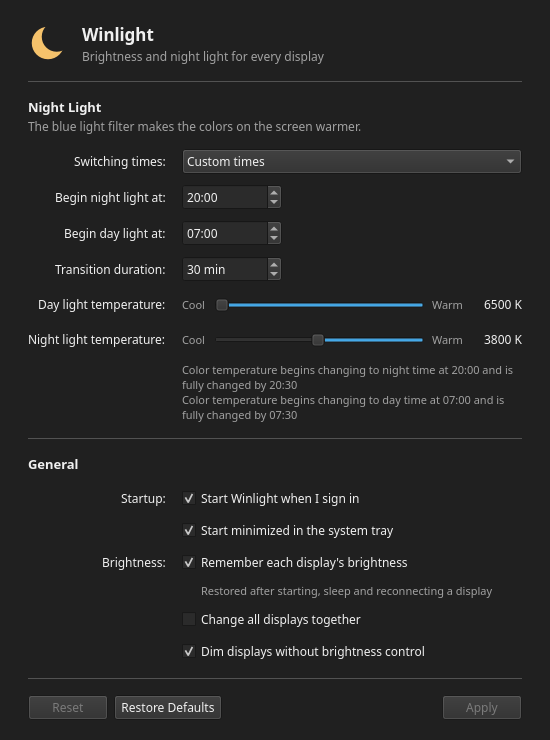
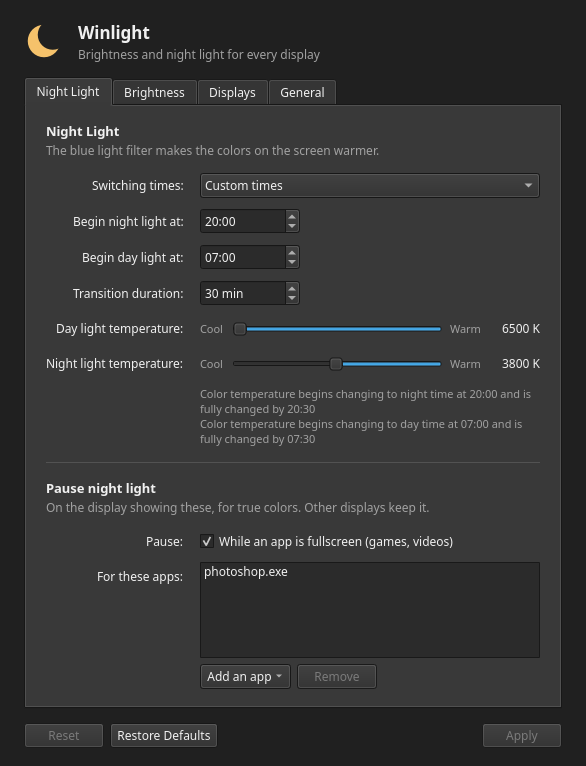
Docs: replaces Windows Night Light, command line, reporting, installer test plan
- README: Winlight replaces Windows Night Light rather than stacking with
  it; the new features; command line and "Report a Problem" sections.
- docs/testing-installer.md: a 20-minute checklist for testers using the
  installer, ending in Report a Problem.
- docs/windows-testing.md: unlock/wake timing, Windows Night Light
  notice, exemptions, schedule, displays, command line, diagnostics,
  safe mode, PATH.
- docs/windows-notes.md: the design choices behind them and the issues
  they answer.
- Release notes mention Windows Night Light and Report a Problem.
- Screenshots include the Brightness tab.

diff --git a/tools/screenshots.py b/tools/screenshots.py
@@ -22,7 +22,7 @@ from PySide6.QtCore import Qt  # noqa: E402
 from PySide6.QtGui import QColor, QPalette  # noqa: E402
 from PySide6.QtWidgets import QApplication  # noqa: E402
 
-from nightlight.config import AppConfig, GeneralConfig, Mode, NightLightConfig  # noqa: E402
+from nightlight.config import AppConfig, BrightnessScheduleConfig, BrightnessStep, GeneralConfig, Mode, NightLightConfig  # noqa: E402
 from nightlight.controller import NightLightController  # noqa: E402
 from nightlight.hardware.brightness import FakeBrightnessBackend  # noqa: E402
 from nightlight.hardware.gamma import FakeGammaBackend  # noqa: E402
@@ -33,7 +33,10 @@ from nightlight.ui.settings_window import SettingsWindow  # noqa: E402
 
 EVENING = datetime(2026, 10, 17, 21, 30).astimezone()  # night light fully on
 # Custom times, so the schedule text reads the same in every time zone.
-NIGHT_LIGHT = NightLightConfig(enabled=True, mode=Mode.TIMES, night_start="20:00", day_start="07:00", night_temperature=3800)
+NIGHT_LIGHT = NightLightConfig(
+    enabled=True, mode=Mode.TIMES, night_start="20:00", day_start="07:00", night_temperature=3800,
+    exempt_fullscreen=True, exempt_apps=("photoshop.exe",),
+)
 
 
 def settle(app: QApplication, seconds: float = 0.3) -> None:
@@ -72,7 +75,11 @@ def main(out: Path) -> None:
     controller = NightLightController(FakeGammaBackend(), NIGHT_LIGHT, clock=lambda: EVENING)
     monitors.refresh()
     settle(app, 1.0)
-    config = AppConfig(night_light=NIGHT_LIGHT, general=GeneralConfig(start_with_windows=True))
+    config = AppConfig(
+        night_light=NIGHT_LIGHT,
+        general=GeneralConfig(start_with_windows=True),
+        brightness_schedule=BrightnessScheduleConfig(True, (BrightnessStep("sunrise", 80, 30), BrightnessStep("21:00", 40))),
+    )
     try:
         for dark in (False, True):
             use_scheme(app, dark)
@@ -82,10 +89,13 @@ def main(out: Path) -> None:
             settle(app)
             flyout.grab().save(str(out / f"flyout-{theme}.png"))
             flyout.close()
-            settings = SettingsWindow(controller, config)
+            settings = SettingsWindow(controller, config, monitors=monitors)
             settings.show()
             settle(app)
             settings.grab().save(str(out / f"settings-{theme}.png"))
+            settings.tabs.setCurrentIndex(1)  # Brightness
+            settle(app)
+            settings.grab().save(str(out / f"settings-brightness-{theme}.png"))
             settings.close()
             print(f"Saved {theme} screenshots to {out}")
     finally:

diff --git a/README.md b/README.md
@@ -9,9 +9,13 @@ Brightness and night light for every display on Windows: external monitors, TVs 
 </p>
 
 - **Every display gets a slider.** DDC/CI for external monitors, the laptop's own control for its panel, Windows' SDR brightness for HDR displays, and software dimming for TVs and anything else.
-- **Night light** with a warm color shift, by custom times or sunrise and sunset at your city, with smooth transitions.
-- **Remembers each display's brightness** and puts it back after restarting, sleep, or reconnecting a monitor.
+- **Night light** with a warm color shift, by custom times or sunrise and sunset at your city, with smooth transitions. It **pauses on the display showing a game, a video or an app you choose**, and keeps going on the others.
+- **Brightness that follows your day:** a schedule of levels (fixed times, or sunrise and sunset), and each display's level put back after restarting, sleep, or reconnecting a monitor.
+- **Your displays, your names:** rename displays or hide the ones you don't want in the panel.
+- **Scriptable:** `winlight-cli --set 40`, `--night-light toggle`, and more, for AutoHotkey, Task Scheduler or a Stream Deck.
 - **Small and native:** a tray icon and a panel, light and dark mode, starts with Windows if you like.
+
+> **Winlight replaces Windows Night Light; it doesn't add to it.** If both are on, the screen is tinted twice and looks far too orange. Winlight shows a notice with a button to Windows' setting when it finds Windows Night Light on: turn that off and let Winlight do it.
 
 <p align="center">
   <img src="docs/screenshots/settings-light.png" alt="Winlight settings: Night Light schedule and temperatures, startup and brightness options" width="520">
@@ -37,6 +41,13 @@ Brightness and night light for every display on Windows: external monitors, TVs 
 | SDR brightness for HDR displays | 🧪 Needs Windows testing | Windows' "SDR content brightness" (80–480 nits), as in Monitorian and Twinkle Tray, for HDR displays without DDC/CI. |
 | Software dimming for TVs and displays without brightness control | 🧪 Needs Windows testing | Dims the colors through the gamma ramp, together with night light, using Twinkle Tray's driver-safe curve. Can be turned off. |
 | Remember brightness, change all displays together | 🧪 Needs Windows testing | Restored after start, sleep and reconnecting, as Twinkle Tray does; linked sliders like Monitorian's "unison". |
+| Brightness schedule | 🧪 Needs Windows testing | Levels at times of day or sunrise/sunset ± minutes, as Twinkle Tray's "time of day adjustments". Moving a slider keeps your level until the next step. |
+| Pause night light for apps and fullscreen | 🧪 Needs Windows testing | As f.lux's "disable for": only on the display showing the app, fading out and back in. |
+| Rename and hide displays | 🧪 Needs Windows testing | Keyed by the display's id, so names follow it between ports. |
+| Command line (`winlight-cli`) | 🧪 Needs Windows testing | List, get and set brightness per display or all, relative changes, night light on/off/toggle, refresh, JSON output. |
+| Night light back at once after unlock and sleep | 🧪 Needs Windows testing | Listens for Windows' unlock, wake and display-on events, and checks the ramps every 1.5 s. |
+| Windows Night Light notice | 🧪 Needs Windows testing | Detects Windows Night Light from its registry state (undocumented) and offers to open its setting. |
+| One-click diagnostics, crash safe mode | 🧪 Needs Windows testing | "Report a Problem…" saves a zip and copies a summary; a display whose DDC/CI crashed or hung the app is skipped until retried. |
 | Multi-display detection, hotplug and sleep | 🧪 Needs Windows testing | Re-detection after display changes and waking, several times, as monitors are often slow to answer. |
 | Start at sign-in, start minimized | ✅ Ready | The current user's Run registry key; no administrator rights. |
 | Installer, portable zip, uninstaller | ✅ Ready | Per-user, built by GitHub Actions. |
@@ -86,15 +97,17 @@ Most of these were learned from [Monitorian](https://github.com/emoacht/Monitori
 - Gamma ramps don't apply to displays in HDR mode, so night light skips them, and their brightness uses Windows' SDR level instead.
 - Software dimming can't go as dark as a backlight (Windows rejects very dark ramps), and saves no power: it's for displays with no other control.
 - Most TVs don't support DDC/CI.
+- Gamma ramps belong to displays, not windows, so pausing night light for an app pauses it for that app's whole display.
+- Windows Night Light's state has no API; Winlight reads its undocumented registry value, and shows nothing if it can't tell.
 - Running alongside Windows Night Light, f.lux or GPU color settings (such as AMD's "Custom Colors") may cause conflicts.
 
 ## 🗺 Roadmap
 
 1. ✅ Night light, scheduling, tray panel and settings
 2. ✅ Laptop panel brightness, installer, first beta
-3. 🧪 External monitors, TVs and HDR displays: testing now ([test plan](docs/windows-testing.md))
+3. 🧪 External monitors, TVs and HDR displays, and this round's features: testing now ([installer test plan](docs/testing-installer.md), [full test plan](docs/windows-testing.md))
 4. 📋 Code signing, then a 1.0 release
-5. 📋 Hide and rename displays, hotkeys, brightness by time of day
+5. 📋 Hotkeys with an on-screen indicator, per-display brightness schedules
 
 ## 🔗 Related Projects
 
@@ -113,6 +126,27 @@ It is also a learning-focused project designed to:
 - Work with real Windows APIs
 - Handle cross-device compatibility (DDC/CI, multi-monitor)
 - Use AI tools (like ChatGPT or Copilot) effectively in software development
+
+## ⌨ Command line
+
+`winlight-cli.exe` sits next to `Winlight.exe` (the installer can add it to PATH). It talks to the running app, so Winlight must be running.
+
+```powershell
+winlight-cli --list                      # displays, their numbers, ids and brightness
+winlight-cli --set 40                    # every display to 40% (hidden ones excepted)
+winlight-cli --set +10 --display 2       # display 2 up by 10
+winlight-cli --set 70 --display DELL     # by name (any part, custom names too) or id
+winlight-cli --get --display 1           # prints just the number
+winlight-cli --night-light toggle        # also on, off, auto (follow the schedule), status
+winlight-cli --refresh                   # detect displays again
+winlight-cli --list --json               # for scripts
+```
+
+Display numbers are the order in the panel and in `--list`. Changes fade rather than jump. Exit codes: 0 done, 1 failed (the message says why), 2 Winlight isn't running.
+
+## 🐞 Reporting a problem
+
+Right-click the tray icon and choose **Report a Problem…**. Winlight saves a `Winlight-diagnostics-….zip` to your Desktop (logs, settings with the location rounded, and what it knows about each display) and copies a summary to the clipboard. Open an [issue](https://github.com/Arnie14/Night-Light-Windows/issues), paste the summary and attach the zip.
 
 ## ⬇ Download details
 
@@ -160,6 +194,8 @@ Other options:
 - `python main.py --probe` prints what each Windows API reports about every display, and saves it as `probe.txt` in the log folder. Use it when a monitor misbehaves.
 - `--allow-multiple` lets a second copy start. Normally a second launch just opens the running copy's flyout.
 - `--quit` asks the running copy to quit cleanly (restoring normal colors). The installer uses it before upgrading or uninstalling.
+- `--diagnostics` saves the same zip as "Report a Problem…" and prints its path.
+- The command line options above work from source too: `python main.py --list`.
 
 ### Building the Windows app
 
@@ -178,7 +214,7 @@ Releases are built by GitHub Actions ([`.github/workflows/release.yml`](.github/
 
 Logs go to the terminal and to `night-light.log` in the user's log folder (`%LOCALAPPDATA%\night-light\Logs` on Windows).
 
-Testing on Windows follows [docs/windows-testing.md](docs/windows-testing.md).
+Testing on Windows follows [docs/windows-testing.md](docs/windows-testing.md) (from source, everything) or [docs/testing-installer.md](docs/testing-installer.md) (with the installer, for testers).
 
 ### Project layout
 
@@ -192,12 +228,18 @@ nightlight/
   watcher.py             notices display changes, hotplug and waking from sleep
   single_instance.py     keeps one copy running
   probe.py               the --probe diagnostic report
-  core/                  pure logic, no Qt or hardware: colortemp.py, schedule.py
+  core/                  pure logic, no Qt or hardware: colortemp.py, schedule.py,
+                         brightness_schedule.py, locations.py
   hardware/              backend interfaces (brightness.py, gamma.py), windows.py + win32.py
-                         (Windows APIs), kde.py (Linux dev backend)
+                         (Windows display APIs), winsystem.py (foreground app, unlock and
+                         power events, Windows Night Light), kde.py (Linux dev backend)
   ui/                    tray, flyout, placement, settings_window, widgets, night_light_text, icons
   autostart.py           starting at sign-in (Run key)
-  brightness_memory.py   remembers and restores each monitor's brightness
+  brightness_memory.py   which level each display should have: remembered, or the brightness schedule
+  exemptions.py          pausing night light for apps and fullscreen
+  commands.py, cli.py    the command line (winlight-cli) and what the app does for it
+  diagnostics.py         "Report a Problem…"
+  safe_mode.py           skipping displays whose DDC/CI crashed or hung the app
   data/                  time zone table for picking a location (from tools/make_timezones.py)
 packaging/               Windows build: PyInstaller spec, Inno Setup script, icon, build.py
 tools/                   screenshots.py (README images), make_timezones.py
@@ -214,6 +256,7 @@ This project is licensed under the **GNU General Public License v3.0**. See [LIC
 Behavior, wording and some data are based on the open-source work of other projects, used under licenses compatible with the GPL-3.0:
 
 - **[KDE Plasma](https://kde.org/plasma-desktop/)**: the design of the Brightness and Color panel and the Night Light settings page, KWin's Night Light transition behavior and timings, KWin's composition of brightness and color temperature into one transform per display, and the schedule rules from [knighttime](https://invent.kde.org/plasma/knighttime). KWin and PowerDevil are GPL-2.0-or-later; knighttime is LGPL.
-- **[Monitorian](https://github.com/emoacht/Monitorian)** (MIT) and **[Twinkle Tray](https://github.com/xanderfrangos/twinkle-tray)** (MIT): how the Windows display, DDC/CI, WMI, SDR white level and gamma APIs are used, one class per kind of brightness control, the order of fallbacks, Twinkle Tray's driver-safe software dimming curve, flyout placement and tray behavior, retry and re-detection timings, and many Windows quirks. No code is copied; the approach is re-implemented in Python, as described in [docs/windows-notes.md](docs/windows-notes.md).
+- **[f.lux](https://justgetflux.com/)**: the idea of pausing night light for chosen apps and fullscreen.
+- **[Monitorian](https://github.com/emoacht/Monitorian)** (MIT) and **[Twinkle Tray](https://github.com/xanderfrangos/twinkle-tray)** (MIT): their users' requests for a command line and the shape of it, Twinkle Tray's brightness schedule, renaming and hiding displays and crash safe mode, Monitorian's power notifications; and how the Windows display, DDC/CI, WMI, SDR white level and gamma APIs are used, one class per kind of brightness control, the order of fallbacks, Twinkle Tray's driver-safe software dimming curve, flyout placement and tray behavior, retry and re-detection timings, and many Windows quirks. No code is copied; the approach is re-implemented in Python, as described in [docs/windows-notes.md](docs/windows-notes.md).
 - **[Redshift](https://github.com/jonls/redshift)** (GPL-3.0) and KWin: the blackbody color table by Ingo Thies (2013) used in [nightlight/core/colortemp.py](nightlight/core/colortemp.py).
 - Python libraries: [PySide6](https://doc.qt.io/qtforpython-6/) (LGPL-3.0), [monitorcontrol](https://github.com/newAM/monitorcontrol) (MIT), [WMI](https://github.com/tjguk/wmi) (MIT) with [pywin32](https://github.com/mhammond/pywin32) (PSF), [astral](https://github.com/sffjunkie/astral) (Apache-2.0), [platformdirs](https://github.com/tox-dev/platformdirs) (MIT), [jeepney](https://gitlab.com/takluyver/jeepney) (MIT).

diff --git a/docs/windows-notes.md b/docs/windows-notes.md
@@ -23,7 +23,7 @@ Both projects combine several APIs, because no single one gives everything:
 | WMI `root\wmi` `WmiMonitorBrightness` / `WmiMonitorBrightnessMethods` | Built-in laptop panel brightness and its supported levels | Both |
 | WinRT `DisplayMonitor` | Better names, connection kind | Monitorian, on Windows 10 1803+ |
 
-- ✅ `nightlight/hardware/win32.py` binds `QueryDisplayConfig`, `EnumDisplayMonitors`, dxva2 and GDI with ctypes. Names come from the EDID via `QueryDisplayConfig`, not from the DDC/CI capabilities string (see §8).
+- ✅ `nightlight/hardware/win32.py` binds `QueryDisplayConfig`, `EnumDisplayMonitors`, dxva2 and GDI with ctypes. Names come from the EDID via `QueryDisplayConfig`, not from the DDC/CI capabilities string (see §9).
 - ✅ The device path converts to a PnP instance id (`DISPLAY\BOE0812\4&...&UID265988`), which is how both projects match a WMI instance to a display.
 - ✅ The connector type marks built-in panels (LVDS, embedded DisplayPort or UDI, "internal") and "indirect" displays (DisplayLink/USB, Miracast, virtual), which have no DDC/CI channel.
 - ➖ WinRT `DisplayMonitor`: `QueryDisplayConfig` names have been good enough.
@@ -132,7 +132,8 @@ From Twinkle Tray's settings (its `en.json` strings) and Monitorian's README:
   - ✅ The built-in display's slider, linked changes and restores stop at 1%.
 - **Update rate.** Twinkle Tray offers rates from "Ludicrous" to 2 s, because some monitors flicker when written to quickly.
   - ✅ A fixed 100 ms throttle with only the latest value sent. 📋 Make it a setting if testing finds a monitor that flickers.
-- 📋 **Later:** hide and rename displays, reorder them (both); hotkeys and an on-screen overlay (Twinkle Tray, and Monitorian as a paid add-on); brightness by time of day and dimming when idle (Twinkle Tray); contrast and min/max range per monitor (Monitorian); scrolling over the tray icon (needs a native event filter, see §4).
+- ✅ Hide and rename displays, and brightness by time of day: see §8.
+- 📋 **Later:** reordering displays (both); hotkeys and an on-screen overlay (Twinkle Tray, and Monitorian as a paid add-on); dimming when idle and per-display schedules (Twinkle Tray); contrast and min/max range per monitor (Monitorian); scrolling over the tray icon (needs a native event filter, see §4).
 
 ## 6. External monitors and TVs: what to expect and how it's handled
 
@@ -170,9 +171,31 @@ Reading [Monitorian](https://github.com/emoacht/Monitorian), [Twinkle Tray](http
   - ✅ `WindowsGammaBackend` keeps each display's base ramp and dimming; night light and dimming both recompose base → dimmed → tinted, under a lock (night light comes from the UI thread, dimming from the monitor thread). Night light turning off keeps dimming; quitting (`release()`) undims and restores every ramp.
 - **Monitorian's 24H2 HDR check** (`ADVANCED_COLOR_INFO_2`, `activeColorMode == HDR`).
   - ✅ Already used.
-- 📋 **Display power notifications** (Monitorian `PowerManagement.cs`: `RegisterPowerSettingNotification` for the console display state) would let the app restore brightness when a monitor turns back on without a display change, and avoid DDC/CI while displays are off. Worth doing if testing shows HDMI monitors coming back at the wrong level.
+- **Display power and session notifications** (Monitorian `PowerManagement.cs`: `RegisterPowerSettingNotification` for the console display state).
+  - ✅ `hardware/winsystem.py`: a hidden window registered for `GUID_CONSOLE_DISPLAY_STATE` and session changes (`WTSRegisterSessionNotification`), read through Qt's native event filter. Unlocking, waking and a display turning on re-apply night light at once (it was 1–2 s late after unlocking) and restore brightness; see §8.
 
-## 8. Quirks and issues they ran into
+## 8. This round: features from their users' requests
+
+- **Night light back at once after unlock and sleep.** Windows resets gamma ramps on the lock screen and after sleep, often before telling anyone.
+  - ✅ Windows' unlock, wake and display-on events trigger an immediate check and a few more over 3 s (Windows can reset the ramp again as the desktop reappears); `WindowsGammaBackend.verify()` also runs every 1.5 s, one `GetDeviceGammaRamp` per display, and re-applies only where our ramp was replaced.
+- **Pausing night light for apps and fullscreen** (f.lux's "disable for", the main reason people pick it over Windows Night Light).
+  - ✅ Gamma ramps are per display, so the display showing the app pauses and the others don't. The foreground window is checked every 0.4 s (`GetForegroundWindow`, `QueryFullProcessImageNameW`, the DWM frame against `MonitorFromWindow`'s rectangle; the desktop and taskbar don't count as fullscreen). The controller fades that display to neutral and back through a per-display temperature in the gamma backend.
+- **Windows Night Light stacking.** Both tint, so the result is far too warm.
+  - ✅ Its state is read from the CloudStore registry blob (undocumented; byte 18 is 0x15 when on, 0x13 off, as scripts that toggle it read it, at both the old and the 24H2 location). Unknown formats show nothing rather than a false warning. The notice opens `ms-settings:nightlight`.
+- **Command line.** Monitorian's (#655, #585) and Twinkle Tray's (#1118, #1214, #628, #485) issues ask for get/set per display and for all, relative changes, refresh, fading, numbers that match what users see, and scripting.
+  - ✅ `winlight-cli.exe`, a console build of the same program (a windowed exe can't print or give an exit code to cmd), talking JSON to the running app over the single-instance pipe. Numbers are the panel's order; names match custom names; "all" leaves hidden displays alone; changes fade; `--json` for scripts; exit codes 0/1/2.
+- **Crash safe mode** (Twinkle Tray 1.18: "after a detection-related crash, the app uses a safer method on the next start").
+  - ✅ `safe_mode.py`: a marker is written before each display's DDC/CI detection and removed after; one left at start means the app crashed or was ended during it (a hang shows the watchdog warning, and the user has to end it), so that display's DDC/CI is skipped, with a reason in the panel, until ⟳ retries it. Its other controls (WMI, SDR) still work.
+- **Rename and hide displays** (Twinkle Tray's "Rename Monitors", "Hide Displays"; Monitorian's press-and-hold rename).
+  - ✅ Settings > Displays, keyed by the display's EDID id as Twinkle Tray keys them, so names follow a display between ports; an empty name keeps its own. Hidden displays are left out of the panel, linked changes, "--set all", the schedule and restores.
+- **Brightness schedule** (Twinkle Tray's "time of day adjustments", "use sun position" with an offset, "check at app startup").
+  - ✅ Steps at a time, or sunrise/sunset ± minutes using night light's location. A step fades every visible display to its level, through the same power-checked path as restores, so sleeping monitors get it when they wake.
+  - The conflict between scheduled and remembered levels is settled in one place, `BrightnessMemory.target()`: with the schedule on, the user's own level wins if set after the current step began (a manual change pauses the schedule until its next step), otherwise the scheduled level; with it off, the remembered level. Both restores and steps use it. Twinkle Tray had bugs from the two fighting (startup overwriting the current level, sliders reverting after hardware events); its "animate between times" also "quickly overrides manual changes", which this avoids by changing levels only at steps.
+- **One-click diagnostics** (Monitorian's FAQ asks for probe and operation logs; collecting them by hand is where reports stall).
+  - ✅ Tray > Report a Problem…: a zip on the Desktop (summary, logs, settings with the location rounded) and the summary on the clipboard. No DDC/CI scan or tint, so it's safe any time.
+- **Smooth changes.** Starting at night fades in, quitting fades out, pausing and resuming fade, scheduled and command-line brightness changes fade.
+
+## 9. Quirks and issues they ran into
 
 - **Monitors aren't ready straight after a change.** After a display change, resume or sign-in, monitors often don't answer DDC/CI for several seconds.
   - Monitorian's timers tick at gaps of 1, 4, 5 and 10 s after a display settings change, so it re-scans 1, 5, 10 and 20 s afterwards. After resume it re-scans at 5, 10, 20, 30 and 60 s; after the display turns on at 5 and 10 s; and after sign-in at 30 and 60 s. It ignores display changes while the display is off.

diff --git a/docs/windows-testing.md b/docs/windows-testing.md
@@ -166,12 +166,14 @@ Brightness options, also in Settings > General:
 - [ ] Plug it back in: it reappears within about 10 s, with working brightness.
 - [ ] Change resolution, or the scaling of one display: night light stays applied (it is re-applied within about 1 s).
 - [ ] Sleep the PC for over a minute, then wake it: night light is still applied, and within about 30 s brightness works on every monitor. The log shows "Woke up after…".
-- [ ] Lock and unlock (Win+L), and turn a monitor off and on with its power button: note anything that stops working.
+- [ ] Lock and unlock (Win+L) with night light on: night light is back **at once** after unlocking, with no visible flash of normal colors (before: 1–2 s). The log shows "Windows: unlocked". Note if a flash remains, and how long.
+- [ ] Sleep and wake, and let the display turn off on its own (idle) and wake it: the same, with "Windows: resumed" or "Windows: display on" in the log.
+- [ ] Turn a monitor off and on with its power button: note anything that stops working.
 
 ## 8. Running alongside other tools
 
 - [ ] Start `python main.py` a second time: no second tray icon; the first copy's flyout opens instead.
-- [ ] With Windows Night Light on as well as this app: do the tints stack (extra warm) or does one win? Note what you see.
+- [ ] Turn Windows Night Light on (Settings > System > Display > Night light > Turn on now): within about 10 s the panel and Settings show "Windows Night Light is on too", and the button opens Windows' Night light page. Turn it off there: the notice goes away. If the notice never appears, export this registry key with regedit once with Windows Night Light on and once off, and send both: `HKCU\Software\Microsoft\Windows\CurrentVersion\CloudStore\Store\DefaultAccount\Current\default$windows.data.bluelightreduction.bluelightreductionstate`.
 - [ ] With f.lux running: the log notes the ramp being changed by something else. Expect the two to fight; just note how bad it looks.
 
 ## 9. Display scaling and layout
@@ -181,7 +183,38 @@ Brightness options, also in Settings > General:
 - [ ] The settings window resizes itself when switching between Always off, Always on, location and custom times, without leaving empty space or clipping rows.
 - [ ] Take screenshots of the flyout and the settings window in both themes and send them back.
 
-## 10. The installed app
+## 10. This round's features
+
+Pausing night light (Settings > Night Light > Pause night light):
+
+- [ ] Tick "While an app is fullscreen": a fullscreen video (browser F11, or a player) and a game, borderless and exclusive fullscreen, each fade their display to normal colors within about half a second; the other displays stay warm. Leaving fullscreen fades it back. Note any game that isn't detected.
+- [ ] Add an app with "Add an app" (it lists running apps) and with "Browse for an app…": switching to it pauses night light on its display; switching away resumes it.
+- [ ] The panel and the tray tooltip say "Paused for …" meanwhile.
+- [ ] Nothing flashes or jumps: starting the app at night fades in, Quit fades out quickly, pausing and resuming fade.
+
+Brightness schedule (Settings > Brightness):
+
+- [ ] Steps at a clock time, and at sunrise/sunset with an offset (needs a location under Night Light): at each step every visible display fades to the level; a sleeping display gets it when it wakes.
+- [ ] Moving a slider after a step keeps your level, also after sleep and restarting the app, until the next step, which takes over again.
+- [ ] Turning the schedule on applies the current step at once.
+
+Displays (Settings > Displays):
+
+- [ ] Rename a display: the panel, `winlight-cli --list` and the diagnostics use the new name; clearing the name brings back its own.
+- [ ] Hide a display: it's gone from the panel and from "Change all displays together", and the schedule and restores leave it alone.
+
+Command line (`winlight-cli.exe` next to `Winlight.exe`, or `python main.py …` from source):
+
+- [ ] `--list`, `--list --json`, `--get --display 1`, `--set 40`, `--set +10 --display 2`, `--set 50 --display <part of a name>`, `--night-light on|off|toggle|auto|status`, `--refresh`: each does what it says, fades, and prints the result.
+- [ ] Errors say why and exit with 1 (try `--display 9` and `--set bright`); with Winlight not running it says so and exits with 2 (`echo %ERRORLEVEL%`).
+- [ ] From AutoHotkey or a `.bat` file: works, and waits for the result.
+
+Diagnostics and safe mode:
+
+- [ ] Tray > Report a Problem…: a zip appears on the Desktop with summary.txt, settings.json (location rounded) and the logs; the summary is on the clipboard; the buttons show the file and open GitHub. `winlight-cli --diagnostics` does the same and prints the path.
+- [ ] If a monitor ever freezes Winlight: end it in Task Manager and start it again. That display shows "Skipped: Winlight stopped while talking to this display last time"; ⟳ in the panel tries it again.
+
+## 11. The installed app
 
 With a build from [Releases](https://github.com/Arnie14/Night-Light-Windows/releases), or the Actions tab's `winlight-windows` artifact. Quit any copy run from source first.
 
@@ -195,10 +228,12 @@ With a build from [Releases](https://github.com/Arnie14/Night-Light-Windows/rele
 - [ ] Uninstall from Settings > Apps: Winlight quits first (colors back to normal), its files and Start menu entry are gone, and the `Winlight` value is gone from the Run key. `%LOCALAPPDATA%\night-light` (settings) stays.
 - [ ] Portable zip: unzip to another folder, run `Winlight.exe`: it works the same.
 - [ ] Note the installer's size, and how long the app takes to start.
+- [ ] Tick "Add winlight-cli to PATH" when installing: a new terminal finds `winlight-cli`. Uninstall removes it from PATH again, leaving the rest of PATH as it was.
+- [ ] The tester checklist [testing-installer.md](testing-installer.md) works start to finish with the installer alone.
 
 ## What to send back
 
-- `probe.txt` and `night-light.log`, both from `%LOCALAPPDATA%\night-light\Logs\`.
+- The zip from **Report a Problem…** (tray menu), which holds the log, settings and a summary of every display; add `probe.txt` if you ran `--probe`.
 - The screenshots.
 - The failing checklist items, with what happened instead.
 - The output of `pytest`, if anything failed.

diff --git a/docs/testing-installer.md b/docs/testing-installer.md
@@ -1,0 +1,62 @@
+# Testing Winlight with the installer
+
+For testers using the installer from [Releases](https://github.com/Arnie14/Night-Light-Windows/releases). No Python or source code needed. It takes about 20 minutes; skip anything that doesn't apply to your hardware. The full developer checklist is [windows-testing.md](windows-testing.md).
+
+**Found a problem?** Right-click the tray icon → **Report a Problem…**. Winlight saves a zip to your Desktop and copies a summary. [Open an issue](https://github.com/Arnie14/Night-Light-Windows/issues), paste the summary, attach the zip, and say which step below went wrong.
+
+Tell us your setup in the issue: Windows version, laptop or desktop, and each display's model and how it's connected (HDMI, DisplayPort, USB-C, dock, adapter).
+
+## 1. Install
+
+- [ ] Run `Winlight-<version>-setup.exe`. If SmartScreen says "Windows protected your PC", choose **More info → Run anyway** (the beta isn't code-signed yet).
+- [ ] No administrator prompt appears. Optionally tick "Add winlight-cli to PATH".
+- [ ] At the end, "Launch Winlight" starts it: a sun or moon icon appears in the tray (check the ^ overflow area), and no console window opens.
+
+## 2. The panel
+
+- [ ] Click the tray icon: the panel opens above the taskbar, fully on screen, with a slider for each display.
+- [ ] Hover over the icon: the tooltip says "Winlight" and the night light status.
+- [ ] Drag each slider: the display's brightness follows while you drag.
+  - A display that says **Software dimming** gets darker by dimming its colors (normal for TVs).
+  - One that says **HDR · SDR content brightness** changes Windows' SDR brightness.
+  - One that says it **didn't answer over DDC/CI**: turn on DDC/CI in the monitor's own menu, then click ⟳ in the panel.
+- [ ] If the panel shows "Windows Night Light is on too", click **Turn it off…** and switch Windows Night Light off. The notice goes away within about 10 seconds.
+
+## 3. Night light
+
+In the panel, click ⚙ (Settings):
+
+- [ ] Switching times **Always on**, Apply: every display fades warm over about 2 seconds.
+- [ ] Drag the night light temperature: the screen previews it while you drag.
+- [ ] **Lock** the PC (Win+L) and unlock it: night light is back at once, without a visible flash of normal colors.
+- [ ] **Sleep** the PC and wake it: same.
+- [ ] Settings → Night Light → tick **While an app is fullscreen**, Apply. Play a video fullscreen or start a game: that display fades to normal colors, the others stay warm. Leave fullscreen: it fades back.
+- [ ] Add an app under **For these apps** (e.g. your photo editor), Apply, and switch to it: the same happens while it's in front.
+- [ ] Switch back to your usual schedule (custom times or sunset/sunrise).
+
+## 4. Brightness
+
+- [ ] Settings → Brightness → **Remember each display's brightness** is on. Set distinctive levels (e.g. 23% and 61%), quit Winlight (tray → Quit) and start it from the Start menu: the levels come back.
+- [ ] Turn a monitor off with its power button and on again, or unplug and replug it: its level comes back within a few seconds.
+- [ ] Tick **Change all displays together**, Apply: one slider moves them all.
+- [ ] Turn on the **Brightness schedule** with a step a minute or two from now, Apply: at that time every display fades to the step's level. Move a slider afterwards: your level stays until the next step.
+- [ ] Settings → **Displays**: rename one, untick "Show in panel" for another, Apply. The panel uses the new name and leaves out the hidden one.
+
+## 5. Command line (optional)
+
+In a new terminal (or use the full path `%LOCALAPPDATA%\Programs\Winlight\winlight-cli.exe`):
+
+- [ ] `winlight-cli --list` shows your displays with numbers and brightness.
+- [ ] `winlight-cli --set 30 --display 1` fades display 1 to 30%; `winlight-cli --set +20 --display 1` brings it up.
+- [ ] `winlight-cli --night-light toggle` turns night light on or off.
+- [ ] Quit Winlight and run `winlight-cli --list`: it says Winlight isn't running.
+
+## 6. Startup, upgrade, uninstall
+
+- [ ] Settings → General → **Start Winlight when I sign in**, Apply. Sign out and in: Winlight starts in the tray only.
+- [ ] With night light on, run the installer again: Winlight closes itself, colors go back to normal, and your settings are kept after it starts again.
+- [ ] Uninstall (Settings → Apps → Winlight): Winlight closes first and colors return to normal. It's gone from the Start menu, and from Task Manager → Startup apps.
+
+## 7. Send it back
+
+Even if everything worked, a **Report a Problem…** zip is useful: it shows how each of your displays was detected.
